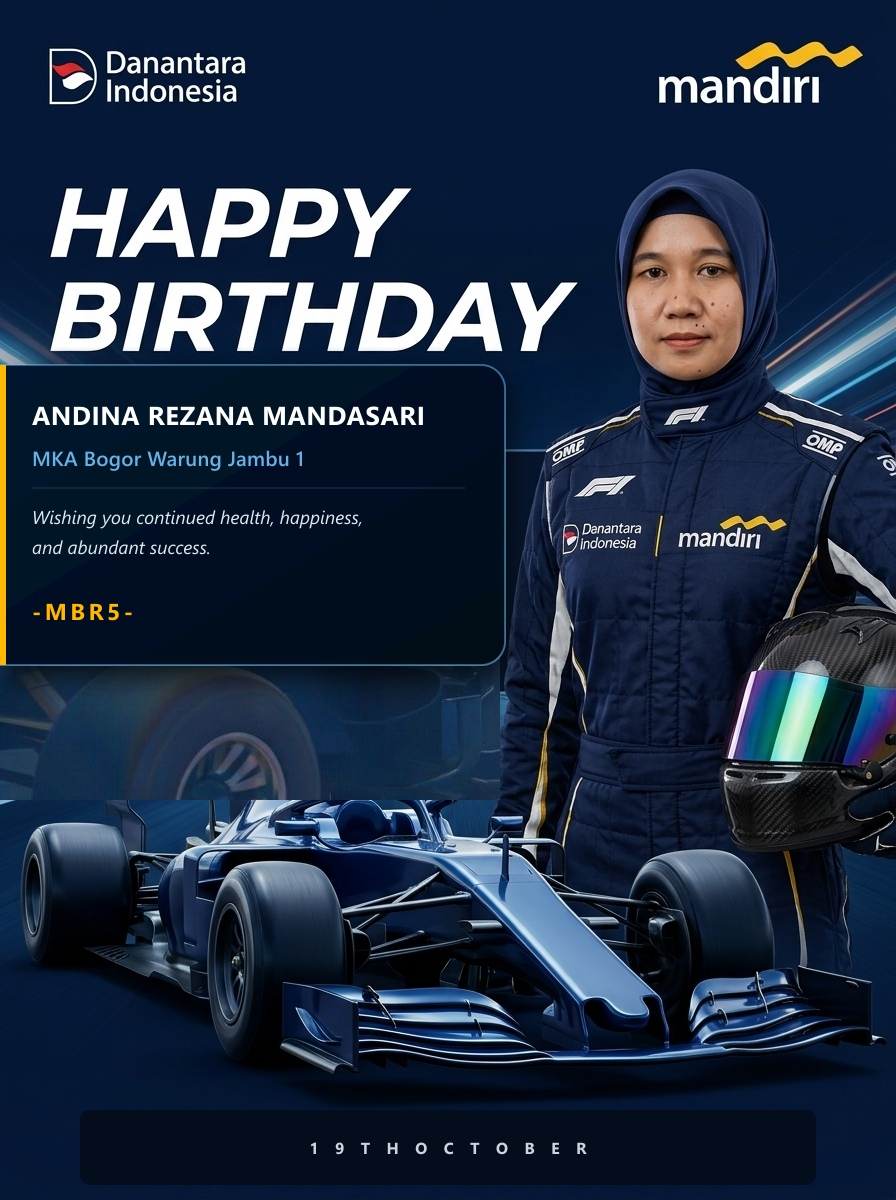
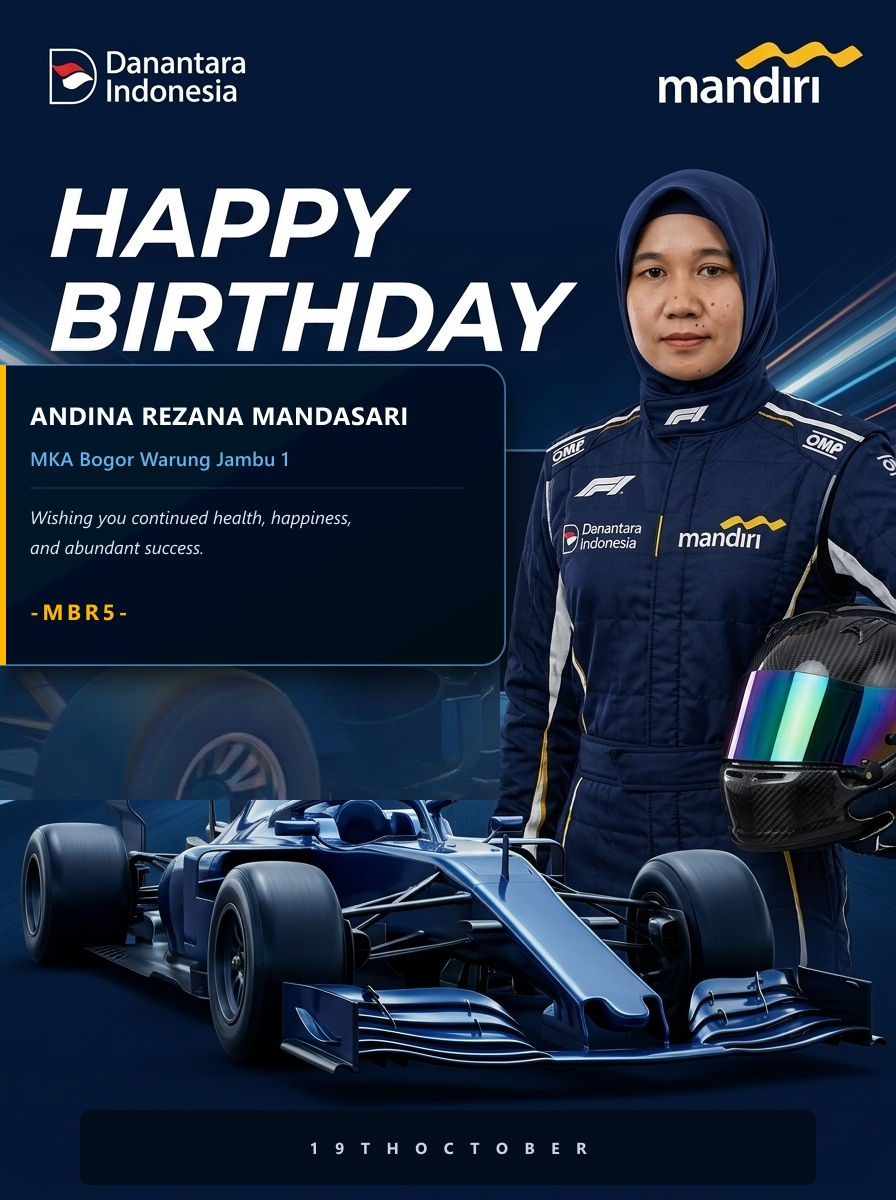
fix(cards): turunkan posisi kotak Ernawati agar tulisan HAPPY BIRTHDAY terlihat utuh dan tidak terpotong

Changed region(s): [[0.0312, 0.3392, 0.4688, 0.4625], [0.0312, 0.4933, 0.1562, 0.5242]]

diff --git a/public/index.html b/public/index.html
@@ -480,6 +480,6 @@
   <!-- Toast Notification Container -->
   <div class="toast-container" id="toastContainer"></div>
 
-  <script src="app.js?v=20261018_mbr5_medium_box"></script>
+  <script src="app.js?v=20261018_ernawati_unobscured_hbd"></script>
 </body>
 </html>
